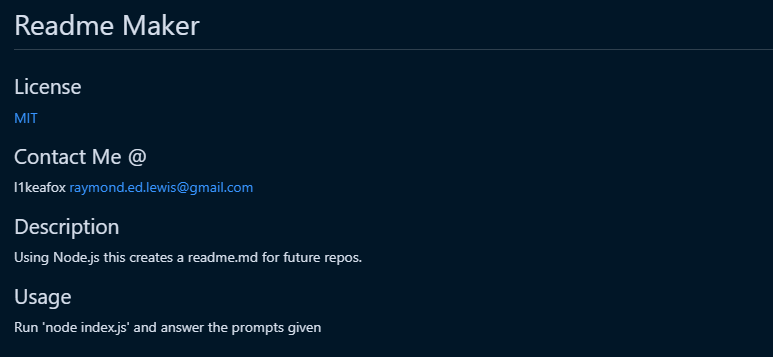
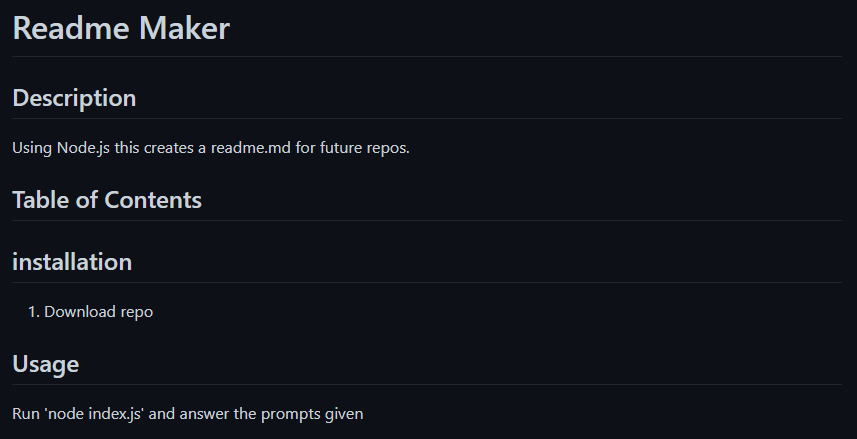
github stuff

diff --git a/index.js b/index.js
@@ -152,48 +152,52 @@ const fs = require('fs');
 inquirer.prompt(questions).then((answers) =>{
     // 
     let strngToApnd = '';
-
+    let rtn = '\n\n\n';
 // THEN a high-quality, professional README.md is generated with the title of my project and sections entitled 
 // Description, //  Table of Contents, //  Installation, //  Usage, //  License, //  Contributing, //  Tests, and  Questions
 // WHEN I click on the links in the Table of Contents
 // THEN I am taken to the corresponding section of the README
 
 // THEN this is displayed as the title of the README
-strngToApnd+= "# "+ answers.ProjectTitle+"\n\n\n";
+strngToApnd+= "# "+ answers.ProjectTitle+rtn;
 
 // THEN a badge for that license is added near the top of the README and a notice is added to the section of the README entitled License that explains which license the application is covered under
 
 // THEN this information is added to the sections of the README entitled Description, Installation, Usage, Contributing, and Tests
+strngToApnd+= '\n\n\n';
 strngToApnd+= "## Description \n";
-strngToApnd+= answers.description+"\n\n\n";
+strngToApnd+= answers.description+rtn;
 
 strngToApnd+= "## Table of Contents \n";
-//strngToApnd+= answers.description+"\n\n\n";
+//strngToApnd+= answers.description+rtn;
+strngToApnd+= `[installation](#installation)\n`
+// 1.  [Documentation](#documentation)
 
 
-
-strngToApnd+= "## installation \n";
-strngToApnd+= answers.installation+"\n\n\n";
 
 strngToApnd+= "## Usage \n";
-strngToApnd+= answers.usage+"\n\n\n";
+strngToApnd+= answers.usage+rtn;
 strngToApnd+= `![Website](/assets/images/${answers.image})\n\n`
 // Here we'll add an image.
 
+strngToApnd+= "##installation \n";
+strngToApnd+= '<a name="installation"></a>';
+strngToApnd+= answers.installation+rtn;
+
 strngToApnd+= "## contributing \n";
-strngToApnd+= answers.contributing+"\n\n\n";
+strngToApnd+= answers.contributing+rtn;
 
 //strngToApnd+= "## test \n";
-//strngToApnd+= answers.test+"\n\n\n";
+//strngToApnd+= answers.test+rtn;
 
 // THEN this is added to the section of the README entitled Questions, with a link to my GitHub profile
 // THEN this is added to the section of the README entitled Questions, with instructions on how to reach me with additional questions
 strngToApnd+= "## Feedback and Contact info\n";
 strngToApnd+= answers.gitHubUN+"\n";
-strngToApnd+= answers.email+"\n\n\n";
+strngToApnd+= answers.email+rtn;
 
 strngToApnd+= "## License\n";
-strngToApnd+= answers.License+"\n\n\n";
+strngToApnd+= answers.License+rtn;
 
 fs.appendFile('README.md',strngToApnd, (err) => {
     if (err) throw err;

diff --git a/README.md b/README.md
@@ -1,20 +1,24 @@
 # Readme Maker
 
 
+
+
+
 ## Description 
 Using Node.js this creates a readme.md for future repos.
 
 
 ## Table of Contents 
-## installation 
-1. Download repo 
-
-
+[installation](#installation)
 ## Usage 
 Run 'node index.js' and answer the prompts given
 
 
 ![Website](/assets/images/readme.PNG)
+
+##installation 
+<a name="installation"></a>1. Download repo 
+
 
 ## contributing 
 undefined
